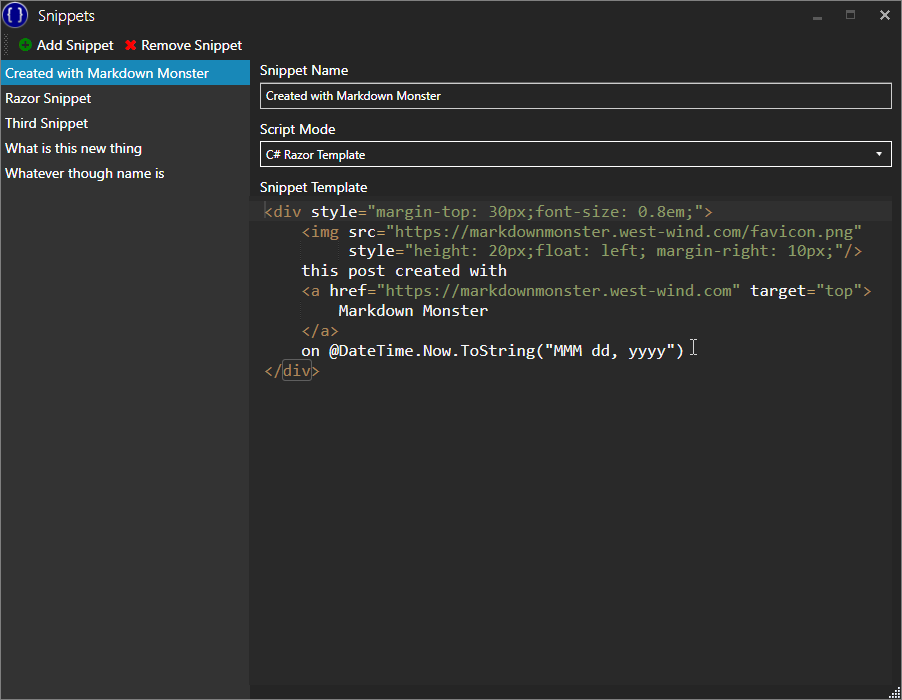
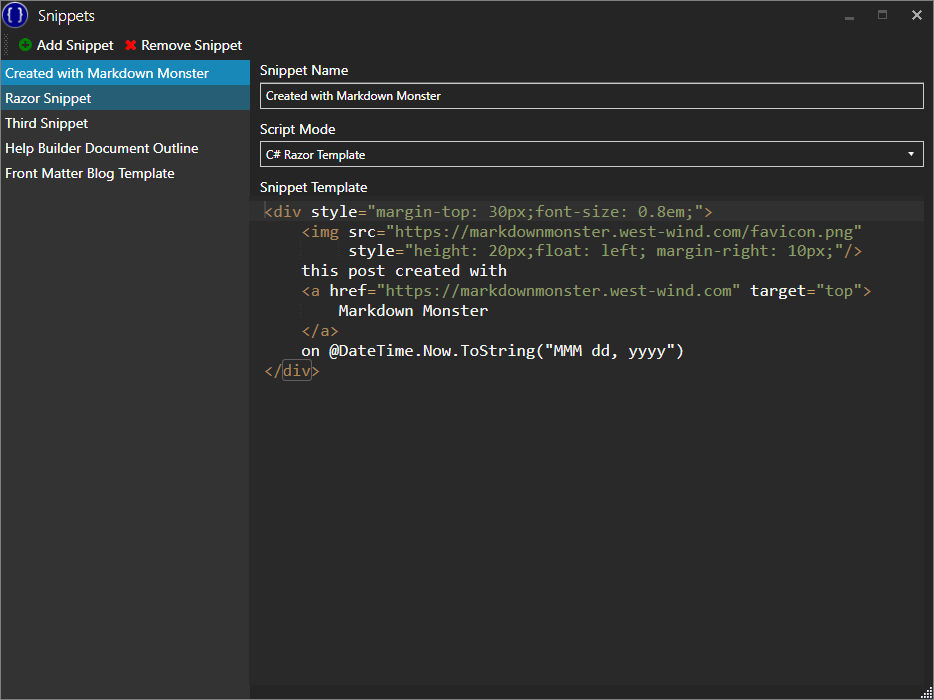
Add keyboard shortcut handling in editor.

diff --git a/SnippetsAddin/SnippetsWindow.xaml b/SnippetsAddin/SnippetsWindow.xaml
@@ -8,12 +8,14 @@
         xmlns:fa="http://schemas.fontawesome.io/icons/"
         mc:Ignorable="d"                            
         Title="Snippets" TitleCharacterCasing="Normal"        
-        FontSize="14"                          
+        FontSize="14"                              
         WindowStyle="SingleBorderWindow" ResizeMode="CanResizeWithGrip"
         WindowStartupLocation="CenterOwner"         
         IsMinButtonEnabled="False" IsMaxRestoreButtonEnabled="False"                       
         Width="900" Height="700" MinHeight="700"                       
-                       Icon="icon.png">
+        Icon="icon.png"
+         WindowTransitionsEnabled="False"                       
+                       >
     
     <Grid>
             <Grid.ColumnDefinitions>
@@ -84,15 +86,13 @@
                              IsTextSearchCaseSensitive="False"
                              IsTextSearchEnabled="True"                   
                              HorizontalContentAlignment="Stretch"
-                 SelectionChanged="ListSnippets_SelectionChanged"
+                             SelectionChanged="ListSnippets_SelectionChanged"
                              MouseDoubleClick="ListSnippets_OnMouseDoubleClick" 
-                             KeyUp="ListSnippets_KeyUp"
-                 >
+                             KeyUp="ListSnippets_KeyUp">
         </ListBox>
 
         <Grid Grid.Row="1" Grid.Column="1"  Margin="10,0">
             <Grid.RowDefinitions>
-                <RowDefinition Height="Auto"/>
                 <RowDefinition Height="Auto"/>
                 <RowDefinition Height="Auto"/>
                 <RowDefinition Height="Auto"/>
@@ -102,18 +102,34 @@
             <TextBlock Grid.Row="0" Margin="0,0,0,4">Snippet Name</TextBlock>
             <TextBox  Grid.Row="1" Text="{Binding ActiveSnippet.Name, UpdateSourceTrigger=PropertyChanged }" />
 
-            <TextBlock Grid.Row="2" Margin="0,10,0,4">Script Mode</TextBlock>
-            <ComboBox Grid.Row="3" Name="ListScriptModes"                       
+            <Grid Grid.Row="2" >
+                <Grid.ColumnDefinitions>
+                    <ColumnDefinition Width="*"/>
+                    <ColumnDefinition Width="*"/>
+                </Grid.ColumnDefinitions>
+
+                <StackPanel>
+                    <TextBlock Grid.Row="2" Margin="0,10,0,4">Script Mode</TextBlock>
+                    <ComboBox Grid.Row="3" Name="ListScriptModes"                       
                       ItemsSource="{Binding ScriptModeItems}"     
                       SelectedValuePath="ScriptMode"
                       DisplayMemberPath="Name"
                       SelectedValue="{Binding ActiveSnippet.ScriptMode}"                      
                       IsSynchronizedWithCurrentItem="True"                      
                       >
-            </ComboBox>
+                    </ComboBox>
+                </StackPanel>
+                
+                <StackPanel Grid.Column="1" Margin="15,0,0,0">
+                    <TextBlock  Margin="0,10,0,4">Expansion Keys (at end of line)</TextBlock>
+                    <TextBox Text="{Binding ActiveSnippet.ShortCut}"  ToolTip="Key sequence that when typed into the editor at the end of a line, will expand the snippet."  />                   
+                      
+                </StackPanel>
 
-            <TextBlock Grid.Row="4" Margin="0,10,0,0">Snippet Template</TextBlock>
-            <WebBrowser Grid.Row="5"  Margin="0,0,0,15" Name="WebBrowserSnippet"/>
+            </Grid>
+
+            <TextBlock Grid.Row="3" Margin="0,10,0,4">Snippet Template</TextBlock>
+            <WebBrowser Grid.Row="4"  Margin="0,0,0,15" Name="WebBrowserSnippet"/>
 
 
         </Grid>

diff --git a/SnippetsAddin/SnippetsAddin.cs b/SnippetsAddin/SnippetsAddin.cs
@@ -1,5 +1,6 @@
 using System;
 using System.IO;
+using System.Linq;
 using System.Windows;
 using FontAwesome.WPF;
 using MarkdownMonster;
@@ -55,12 +56,12 @@ namespace SnippetsAddin
 
 
         /// <summary>
-        /// Inserts a selected snippet into the current document
+        /// Helper function that returns the snippet text that's to be inserted
         /// </summary>
         /// <param name="snippet"></param>
-        public void InsertSnippet(Snippet snippet)
+        /// <returns></returns>
+        public string GetEvaluatedSnippetText(Snippet snippet)
         {
-
             string snippetText = snippet.SnippetText;
 
 
@@ -71,7 +72,7 @@ namespace SnippetsAddin
                 if (snippetText == null)
                 {
                     MessageBox.Show("Snippet execution failed:  " + parser.ErrorMessage);
-                    return;
+                    return null;
                 }
             }
             else if (snippet.ScriptMode == ScriptModes.Razor && snippetText.Contains("@"))
@@ -81,12 +82,41 @@ namespace SnippetsAddin
                 if (snippetText == null)
                 {
                     MessageBox.Show("Snippet execution failed:  " + parser.ErrorMessage);
-                    return;
+                    return null;
                 }
             }
 
+            return snippetText;
+        }
 
+        /// <summary>
+        /// Inserts a selected snippet into the current document
+        /// </summary>
+        /// <param name="snippet"></param>
+        public void InsertSnippet(Snippet snippet)
+        {
+            var snippetText = GetEvaluatedSnippetText(snippet);
+            if (string.IsNullOrEmpty(snippetText))
+                return;
+            
             this.SetSelection(snippetText);
+        }
+
+        public override void OnDocumentUpdated()
+        {
+            base.OnDocumentUpdated();
+
+            var editor = GetMarkdownEditor();
+            string line = editor.GetCurrentLine();
+            if (string.IsNullOrEmpty(line))
+                return;            
+            
+            var snippet = SnippetsAddinConfiguration.Current.Snippets.FirstOrDefault(sn => sn.ShortCut != null && line.Trim().EndsWith(sn.ShortCut));
+            if (snippet != null)
+            {
+                var snippetText = GetEvaluatedSnippetText(snippet);
+                editor.FindAndReplaceTextInCurrentLine(snippet.ShortCut, snippetText);                
+            }
         }
 
         //public override void OnDocumentUpdated()
@@ -102,12 +132,12 @@ namespace SnippetsAddin
         //        editor.SetMarkdown();
         //    }
 
-//////        selectionRange = editor.getSelectionRange();
+        //////        selectionRange = editor.getSelectionRange();
 
-//////startLine = selectionRange.start.row;
-//////endLine = selectionRange.end.row;
+        //////startLine = selectionRange.start.row;
+        //////endLine = selectionRange.end.row;
 
-//////content = editor.session.getTextRange(selectionRange);
+        //////content = editor.session.getTextRange(selectionRange);
 
         //}
     }

diff --git a/SnippetsAddin/SnippetsWindow.xaml.cs b/SnippetsAddin/SnippetsWindow.xaml.cs
@@ -51,7 +51,7 @@ namespace SnippetsAddin
             Loaded += SnippetsWindow_Loaded;
             Unloaded += SnippetsWindow_Unloaded;
 
-            
+            WebBrowserSnippet.Visibility = Visibility.Hidden;
 
             DataContext = Model;            
         }
@@ -116,6 +116,9 @@ namespace SnippetsAddin
         }
 
 
+
+        private string LastChars = string.Empty;
+
         private void ListSnippets_KeyUp(object sender, KeyEventArgs e)
         {
             
@@ -125,6 +128,9 @@ namespace SnippetsAddin
                 if (snippet != null)
                     Model.Addin.InsertSnippet(snippet);
             }
+
+           
+            
         }
 
         private void ListSnippets_SelectionChanged(object sender, SelectionChangedEventArgs e)
